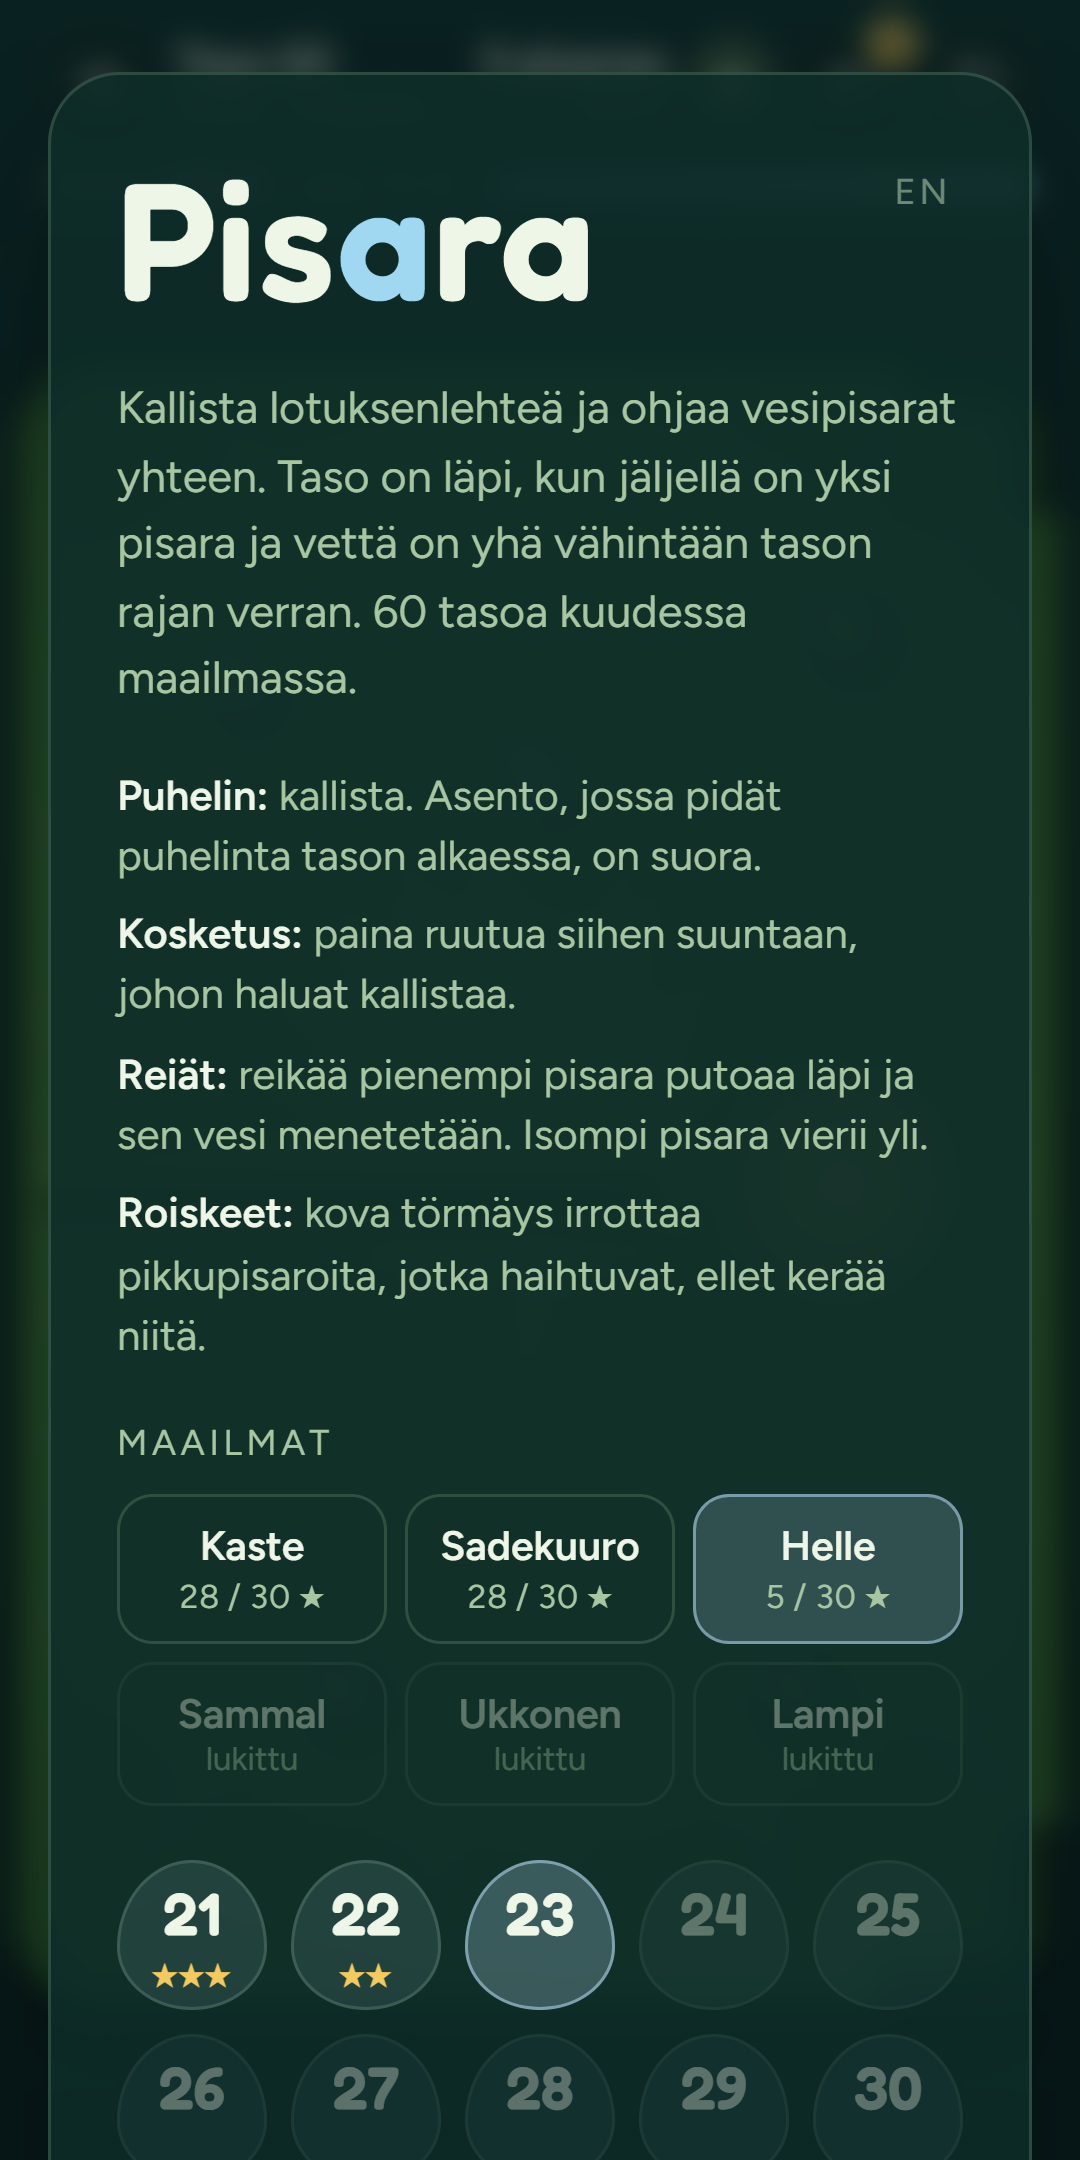
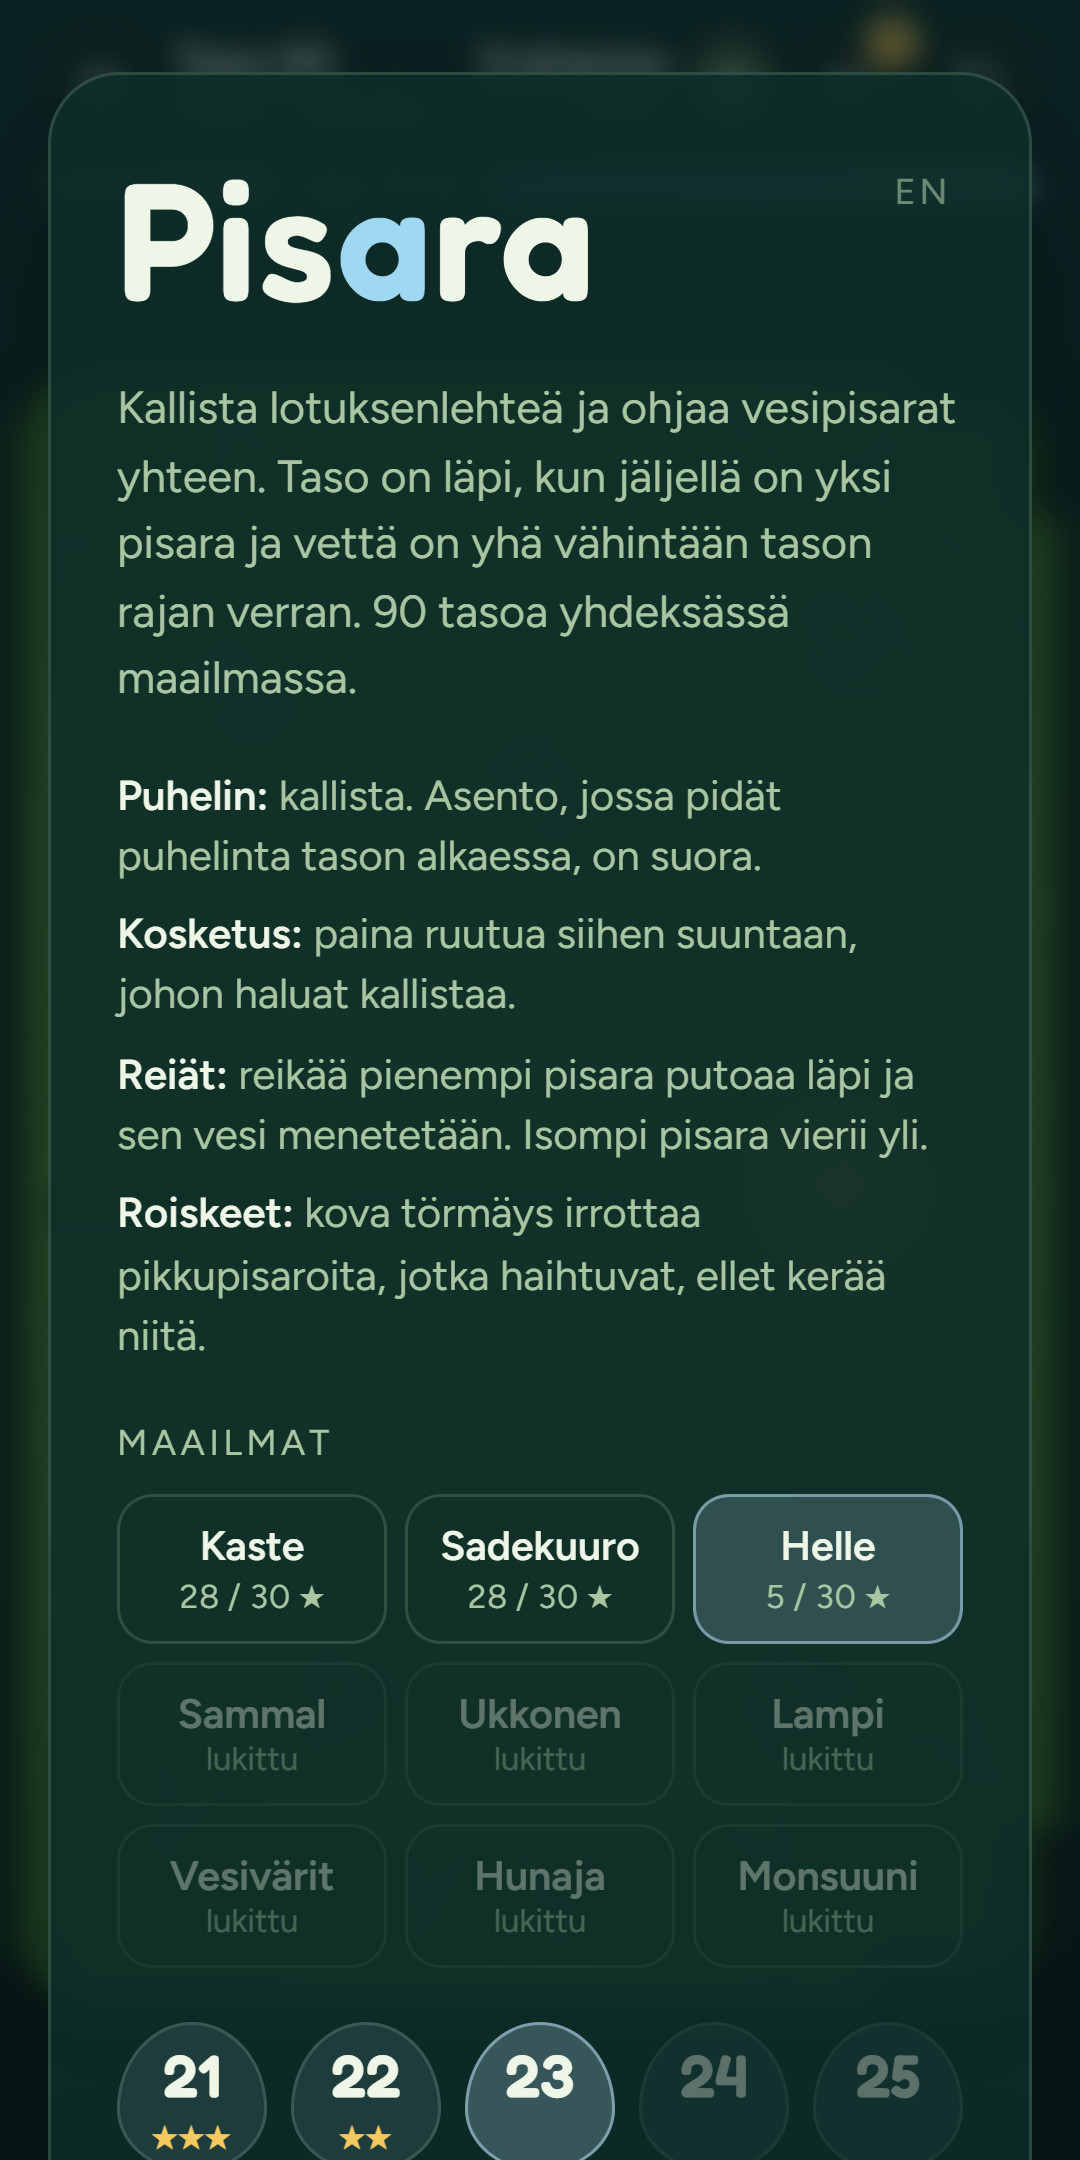
Kauppakuvat 1.0.2: värit ja hunaja mukaan
Kehäkuvan tilalle Vesivärit (taso 64) ja uutena Hunaja/Monsuuni (taso 90),
yhteensä kahdeksan kuvaa kummallakin kielellä.

diff --git a/tools/kuvakaappaukset.js b/tools/kuvakaappaukset.js
@@ -15,7 +15,8 @@
     sokkelo: [6, 6, 'AV', 0.25],
     aurinko: [21, 1, 'AV', 0.3],
     sammal: [33, 4, 'O', 0.3],
-    kehä: [46, 2, 'AO', 0.2],
+    värit: [64, 2, 'A~', 0.35],
+    hunaja: [90, 23, 'A~', 0.35],
     viimeinen: [60, 6, 'YV', 0.2],
   };
 
